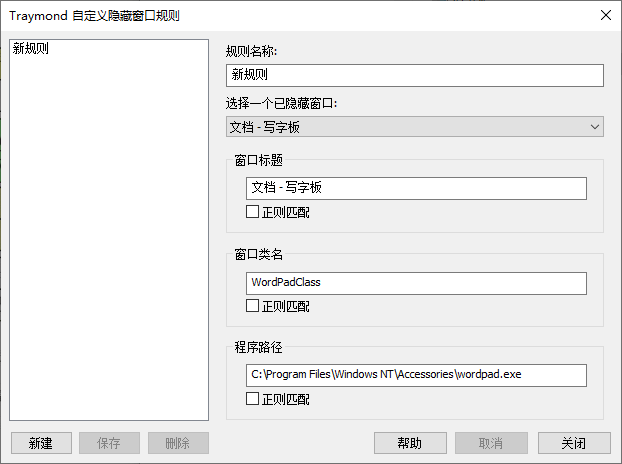
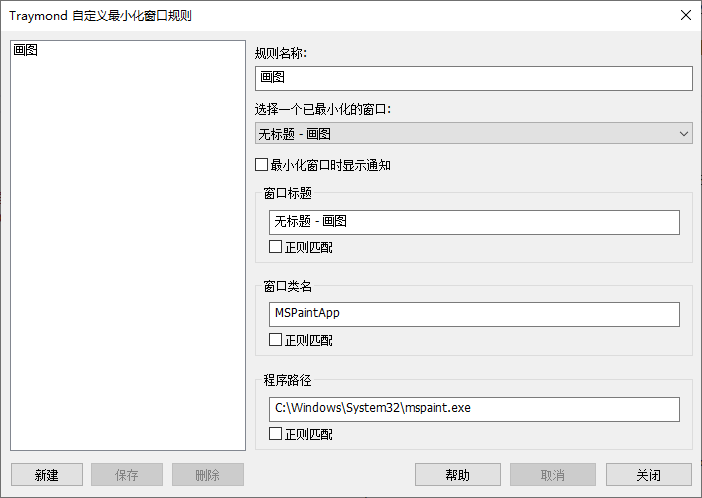
Update docs

diff --git a/README.md b/README.md
@@ -1,15 +1,16 @@
-![Traymond](https://github.com/fcFn/fcFn.github.io/blob/master/images/logos/traymond_logo.png) Traymond 增强版
+![Traymond](images/logo.png) Traymond（增强版)
 =======
 
-复刻自 [Traymond](https://github.com/fcFn/traymond)。增加了以下功能：
+Traymond（增强版）是一款能将任意窗口最小化到系统托盘的 Windows 桌面工具。此项目受 [Traymond](https://github.com/fcFn/traymond) 启发，实现以下功能：
 
 - 中文界面
-- 自定义热键
 - 开机自动运行
-- 最小化窗口到右键菜单
-- 自定义规则隐藏窗口
+- 可自定义热键
+  - 最小化窗口到系统托盘图标或右键菜单
+  - 还原最后一个最小化窗口
+  - 唤出最小化窗口列表
 
-其余功能均与原版一致。
+- 通过自定义规则自动最小化窗口
 
 ## 安装
 
@@ -21,12 +22,26 @@
    scoop install https://github.com/tabris17/traymond/releases/latest/download/traymond.json
    ```
 
-## Screenshot
+## 用法
 
-选项：
+程序运行后会常驻系统托盘。按下默认热键 <kbd>Win</kbd> + <kbd>Shift</kbd> + <kbd>Z</kbd> 最小化当前窗口到系统托盘。可以在“选项”中设置最小化窗口收纳至托盘图标或者右键菜单。
 
-![选项](images/options.png)
+![popup menu](images/popup-menu.png)
 
-自定义隐藏窗口规则：
+鼠标双击托盘图标 ![icon](images/logo-sm.png) 或者在右键菜单中选择“选项”，打开“Traymond 选项” 对话框。
+
+![Traymond 选项](images/options.png)
+
+### 自定义热键
+
+在“自定义热键”列表内选中需要设置热键的行为，在下方的热键控件中按下自定义热键组合。由于热键控件无法响应按下 <kbd>Win</kbd> 键，如果要使用 <kbd>Win</kbd> 作为修饰键，请勾选“使用 Win 键” 选择框。
+
+![设置热键](images/options-hotkey.png)
+
+### 自动最小化窗口
+
+在“Traymond 选项”对话框中勾选“运行期间自动最小化指定窗口”选择框，以启用自动最小化窗口功能。点击“自定义规则”按钮设置规则。
 
 ![自定义隐藏窗口规则](images/rules.png)
+
+具体设置方法请参考项目[维基](/tabris17/traymond/wiki)。
